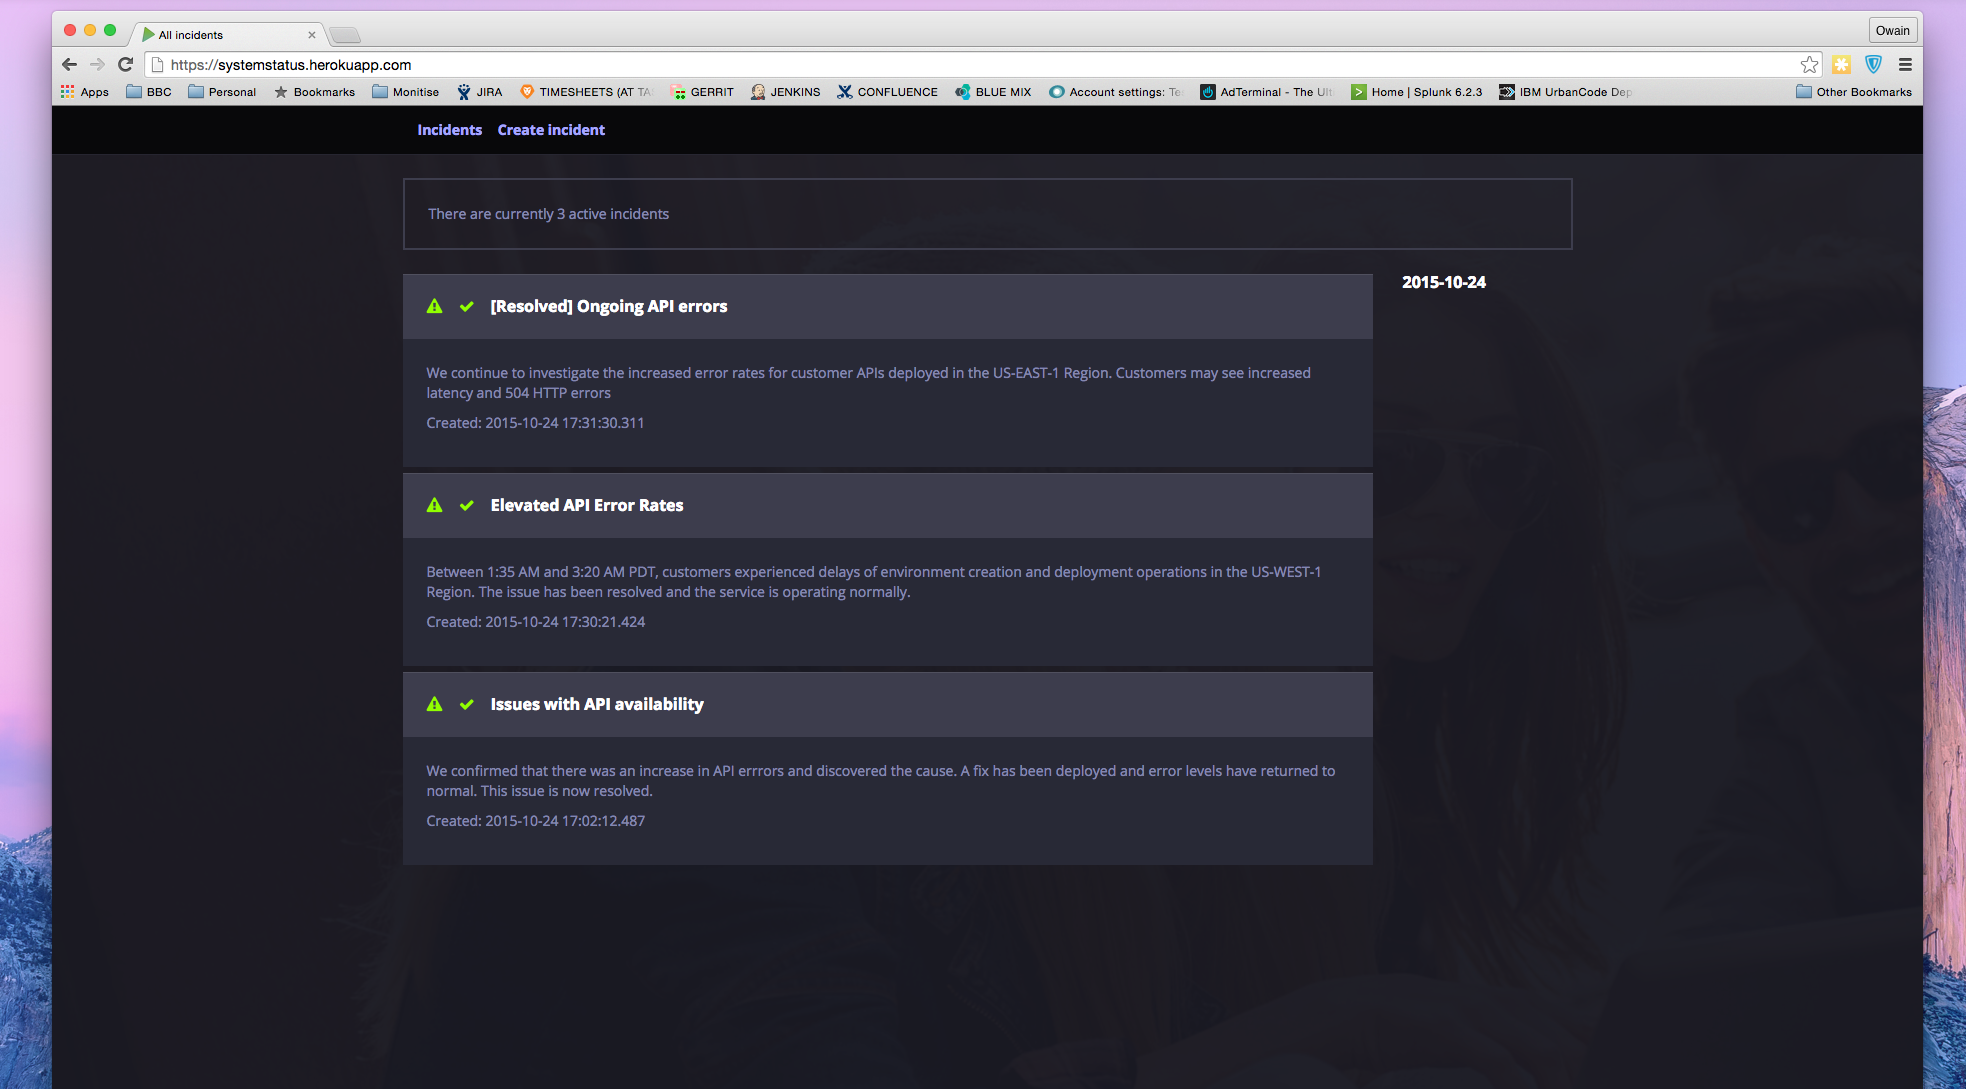
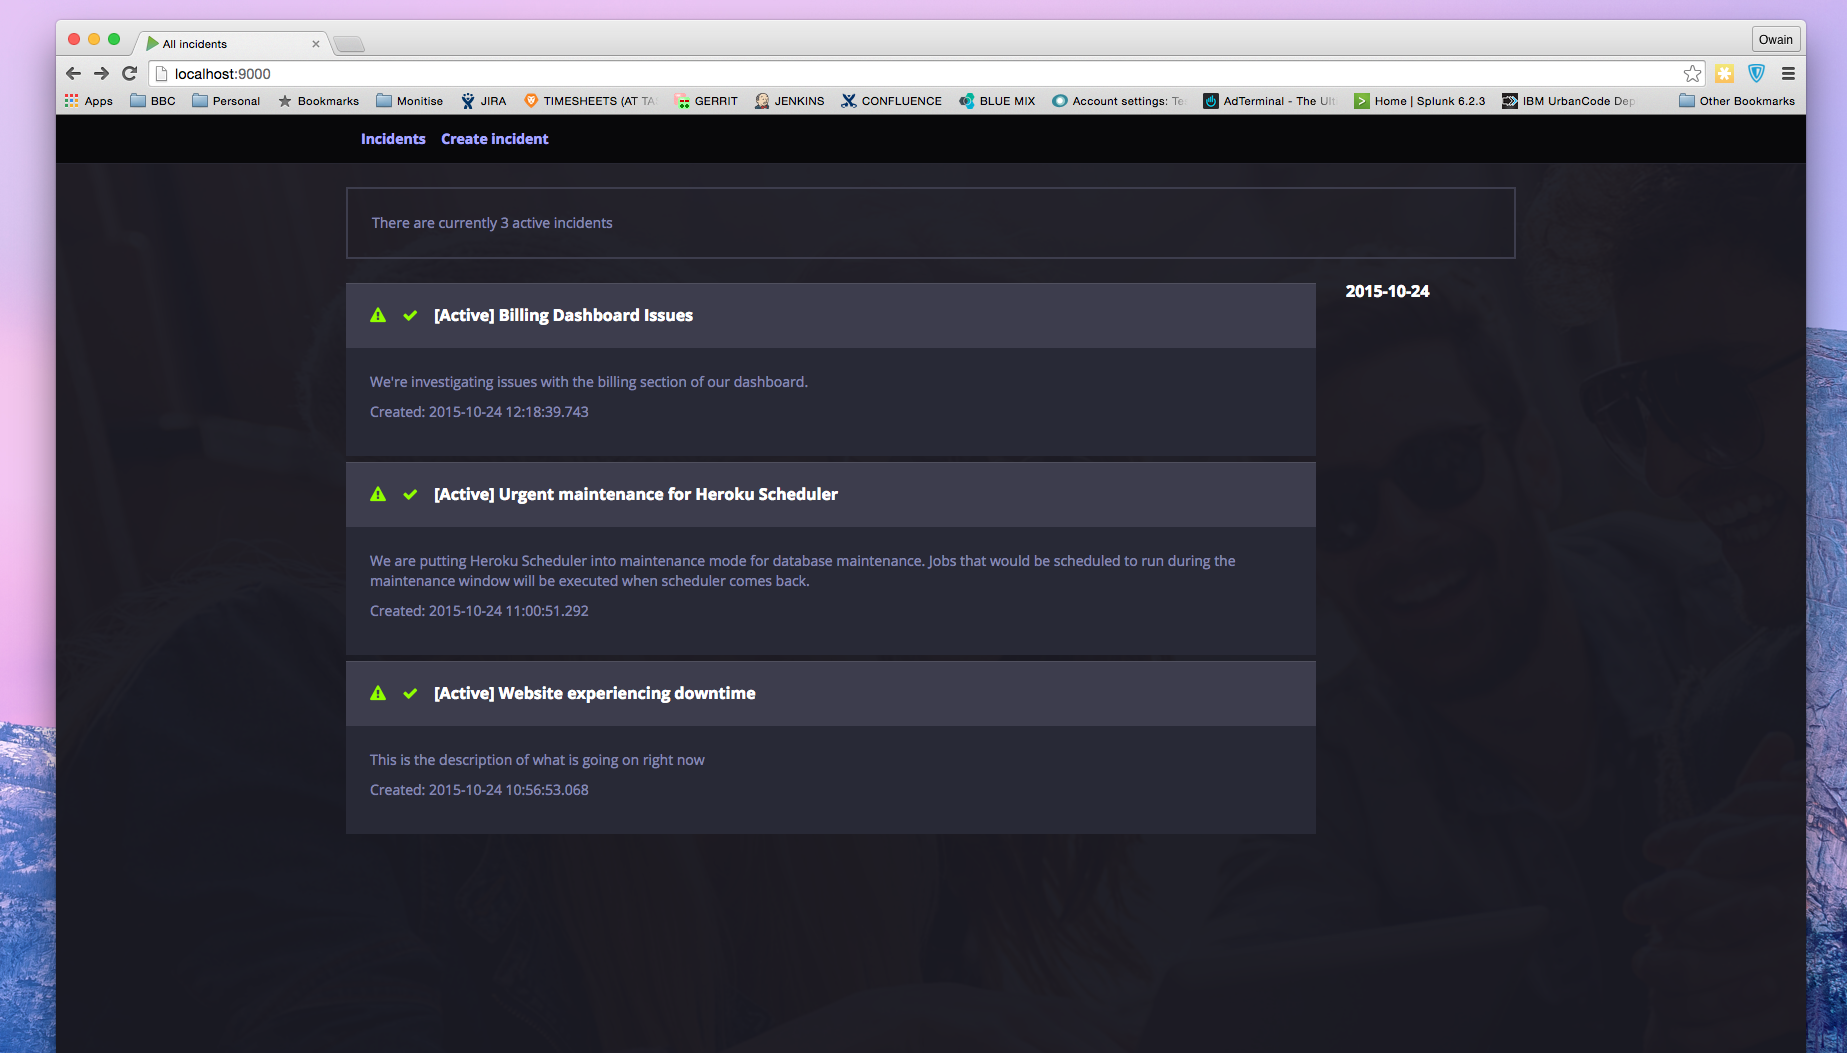
adds api calls and docs also updates images

diff --git a/app/views/internal/updates/add.scala.html b/app/views/internal/updates/add.scala.html
@@ -2,25 +2,29 @@
 
 @admin("Add an update for incident @incident") {
 
-<h1>Add update</h1>
+<div class="col-md-8 col-md-offset-2">
 
-@helper.form(action = routes.Updates.create(incident)) {
+    <h1>Add update</h1>
 
-<input type="hidden" value="@incident" name="incident" id="incident"/>
+    @helper.form(action = routes.Updates.create(incident)) {
 
-<div class="field">
-    <label>Title</label>
-    <input type="text" id="title" name="title" placeholder="i.e Service down"/>
-</div>
+    <input type="hidden" value="@incident" name="incident" id="incident"/>
 
-<div class="field">
-    <label>Description</label>
+    <div class="field">
+        <label>Title</label>
+        <input type="text" id="title" name="title" placeholder="i.e Service down"/>
+    </div>
+
+    <div class="field">
+        <label>Description</label>
       <textarea name="description" id="description" placeholder="Incident description...">
 
       </textarea>
-</div>
+    </div>
 
-<input class="button" type="submit" value="Create incident"/>
-}
+    <input class="button" type="submit" value="Add"/>
+    }
+
+</div>
 
 }

diff --git a/app/views/admin.scala.html b/app/views/admin.scala.html
@@ -5,11 +5,14 @@
 <html lang="en">
 <head>
     <title>@title</title>
-    <!-- Latest compiled and minified CSS -->
+
+    <meta http-equiv="refresh" content="60">
+
     <link rel="stylesheet" href="https://maxcdn.bootstrapcdn.com/bootstrap/3.3.5/css/bootstrap.min.css">
     <link rel="stylesheet" href="https://maxcdn.bootstrapcdn.com/font-awesome/4.4.0/css/font-awesome.min.css">
-    <link href='https://fonts.googleapis.com/css?family=Open+Sans:400,600,700' rel='stylesheet' type='text/css'>
-    <link rel="stylesheet" media="screen" href="@routes.Assets.versioned("stylesheets/main.css")">
+    <link rel="stylesheet" href='https://fonts.googleapis.com/css?family=Open+Sans:400,600,700'>
+    <link rel="stylesheet" href='@routes.Assets.versioned("stylesheets/main.css")'>
+
     <link rel="shortcut icon" type="image/png" href='@routes.Assets.versioned("images/favicon.png")'>
     <script src='@routes.Assets.versioned("javascripts/hello.js")' type="text/javascript"></script>
     </head>

diff --git a/app/views/incidents/index.scala.html b/app/views/incidents/index.scala.html
@@ -15,7 +15,7 @@
         <div class="incident">
             <div class="header">
               <a href="@routes.Incidents.show(incident.id.get)">
-                <h3><i class="fa fa-exclamation-triangle"></i> <i class="fa fa-check"></i> @incident.title</h3>
+                <h3><i class="fa fa-exclamation-triangle"></i> <i class="fa fa-check"></i> [@incident.status] @incident.title</h3>
               </a>
             </div>
             <div class="body">

diff --git a/app/assets/stylesheets/main.less b/app/assets/stylesheets/main.less
@@ -20,7 +20,7 @@ body {
 }
 
 .overlay {
-  background: url(http://www.monitise.com/sites/default/files/hero-images/people_2__0.jpg) no-repeat fixed;
+  background: url(/assets/images/people.jpg) no-repeat center fixed;
   background-size: cover;
   opacity: 0.05;
   position: fixed;
@@ -51,6 +51,7 @@ h3 { font-size: 16px; margin: 0 0 12px 0 }
   color: white;
   font-weight: bold;
   display: inline-block;
+  max-width: 200px;
 }
 
 input, textarea {

diff --git a/app/views/internal/incidents/add.scala.html b/app/views/internal/incidents/add.scala.html
@@ -2,6 +2,8 @@
 
 @admin("New incident") {
 
+  <div class="col-md-8 col-md-offset-2">
+
   <h1>Create a new incident</h1>
 
   @helper.form(action = routes.Incidents.create) {
@@ -17,7 +19,9 @@
       </textarea>
     </div>
 
-    <input class="button" type="submit" value="Create incident" />
+    <input class="button" type="submit" value="Add" />
   }
+
+  </div>
 }
 

diff --git a/README.md b/README.md
@@ -1,9 +1,29 @@
 # Status
 
-An open source status page application for communicating service incidents to customers.
+An open source, self hosted status page application for communicating service incidents to customers.
 
-It is heavily inspired by status.heroku.com
+It is heavily inspired by status.heroku.com and other status page applications.
+
+Please feel free to contribute if you have ideas.
 
 ![](https://raw.githubusercontent.com/owainlewis/status/master/public/images/preview.png)
+
+## API
+
+Status comes with a simple JSON api for adding data to your system and for integration with other services.
+
+Create a new incident
+
+```
+curl -iXPOST http://localhost:9000/api/v1/incidents \
+-H "Content-Type: application/json" \
+-d '{"title": "From API", "description": "This is a description"}'
+```
+
+Delete an incident
+
+```
+curl -iXDELETE http://localhost:9000/api/v1/incidents/5
+```
 
 
